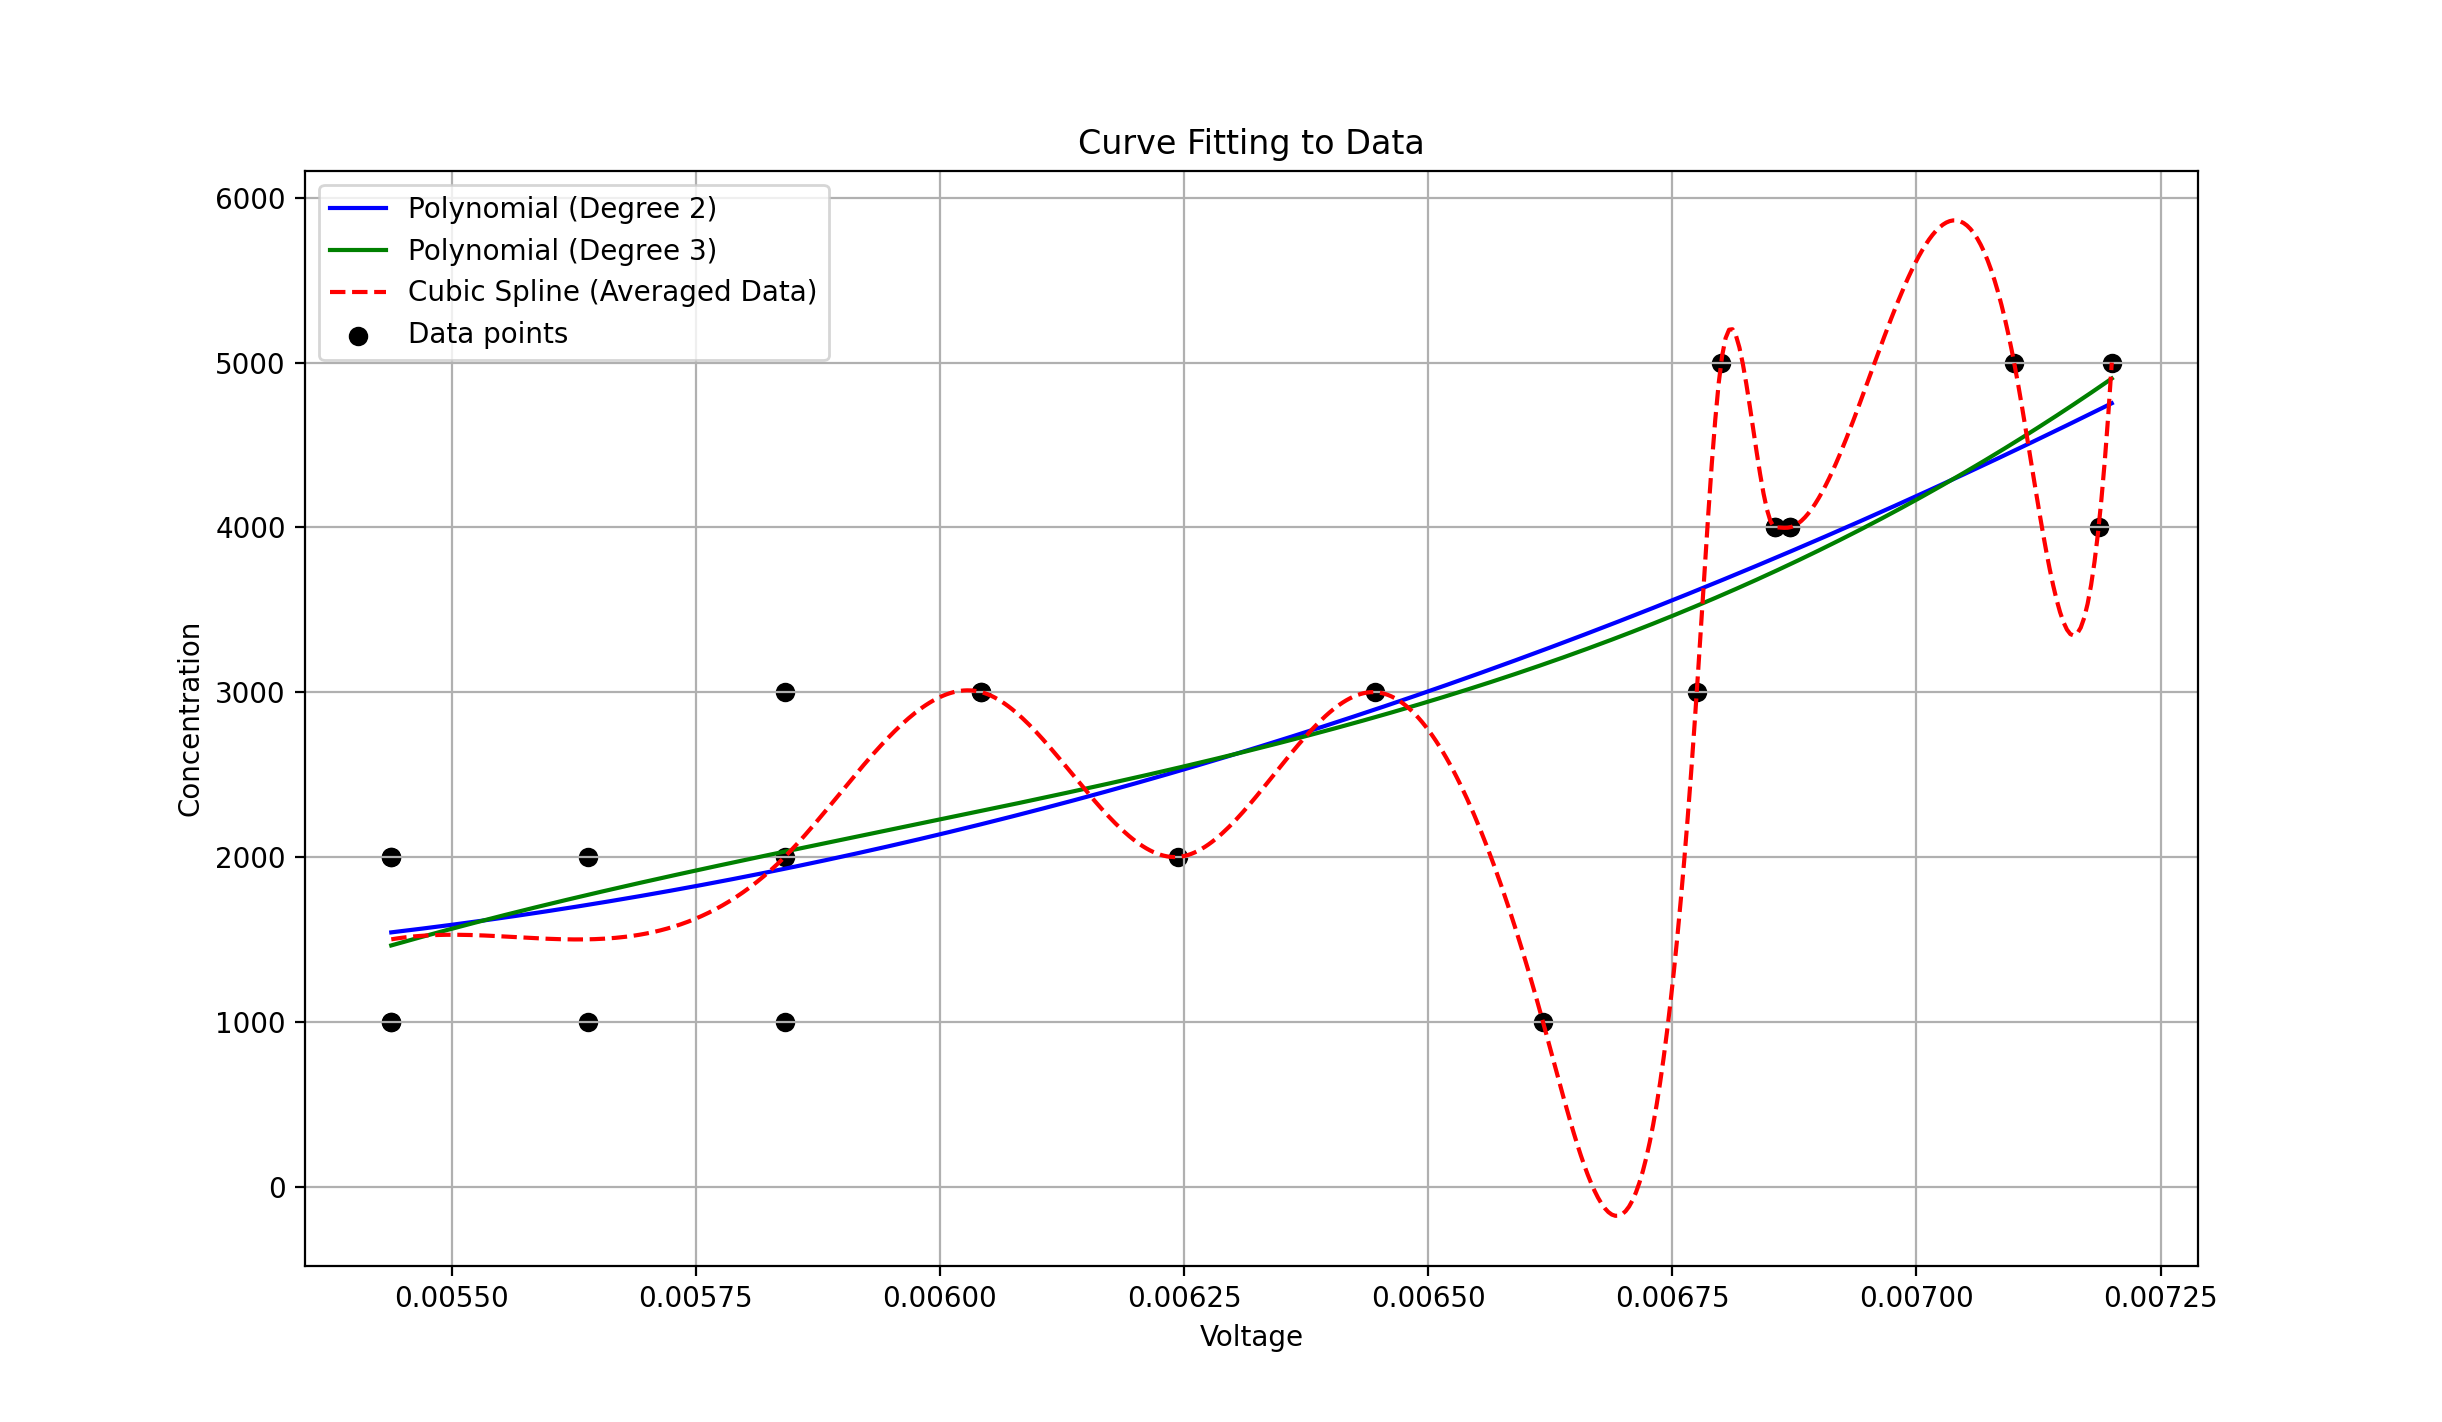
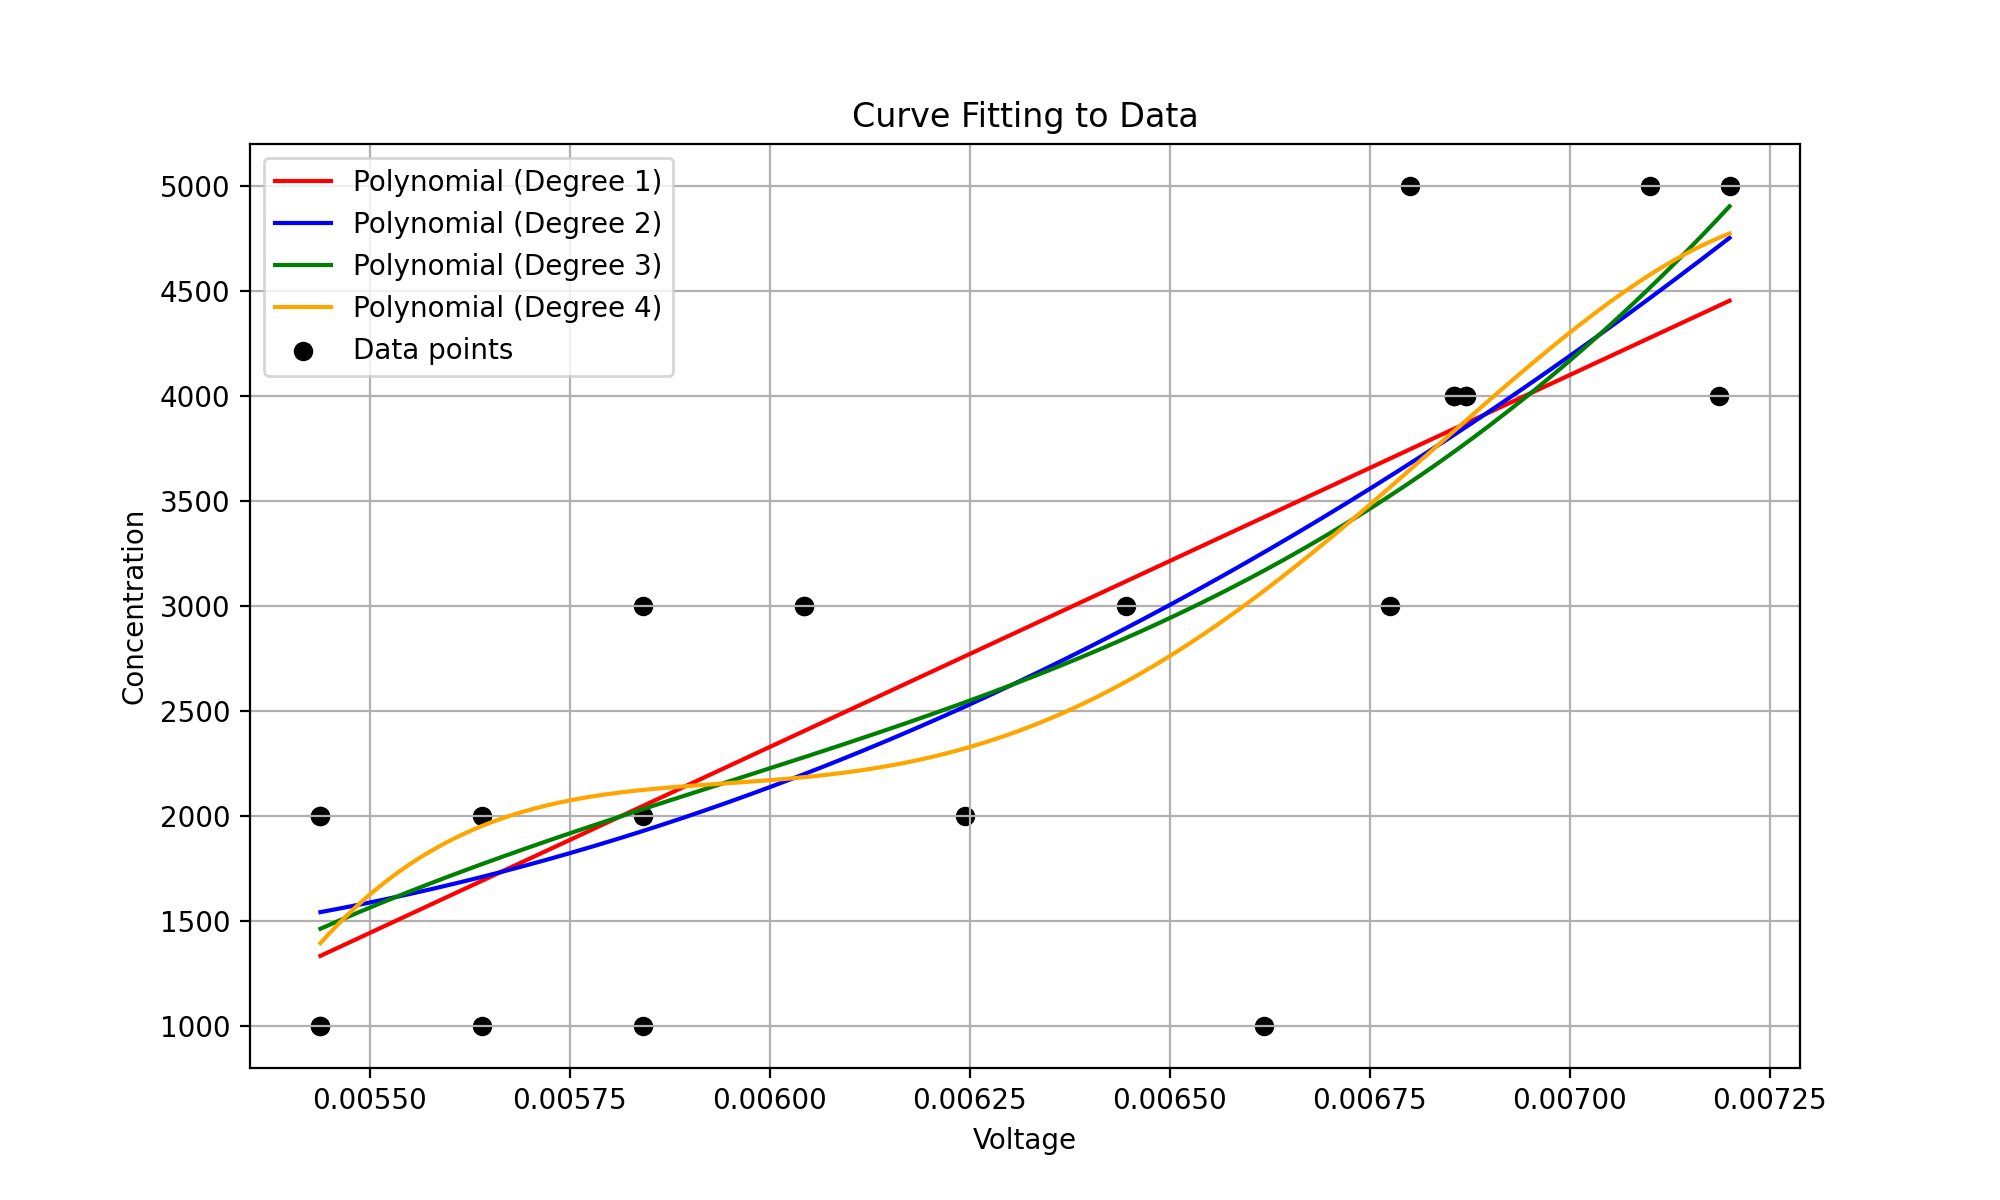
Light up LED after the loop

diff --git a/detector.py b/detector.py
@@ -1,0 +1,75 @@
+from ti_hub import *
+
+# Connect to BB 5 (analog input) to measure voltage
+voltage_port = analog_in("BB 5")
+
+# Connect to BB 1, 2, and 3 (digital outputs) to control LEDs
+red = digital("BB 1")
+green = digital("BB 2")
+blue = digital("BB 3")
+
+# Specify the voltage ranges for red, green and blue LEDs. This is in volts.
+# Ranges are left-inclusive and right-exclusive
+voltage_red = (0.0, 0.75)
+voltage_green = (0.75, 1.5)
+voltage_blue = (1.5, 2.25)
+
+# These variables are to calculate the average voltage
+voltage_sum = 0
+num_samples = 0
+
+ignore_samples = 15
+
+for i in range(300):
+  # Turn off all LEDs first
+  red.off()
+  green.off()
+  blue.off()
+
+  # Measure the reading from voltage sensor
+  measured_data = voltage_port.measurement()
+  # Convert the reading to voltage
+  measured_voltage = measured_data / 16384 * 3.3
+
+  # Add the measured voltage to the sum for calculating average
+  if i > ignore_samples and measured_voltage > 0:
+    voltage_sum += measured_voltage
+    num_samples += 1
+    print(measured_voltage, "avg: ", voltage_sum / num_samples, "V")
+
+  # Turn on the correct LED based on the measured voltage
+  if measured_voltage >= voltage_red[0] and measured_voltage < voltage_red[1]:
+    # Turn on red LED
+    red.on()
+  if measured_voltage >= voltage_green[0] and measured_voltage < voltage_green[1]:
+    # Turn on green LED
+    green.on()
+  if measured_voltage >= voltage_blue[0] and measured_voltage < voltage_blue[1]:
+    # Turn on blue LED
+    blue.on()
+
+  sleep(0.1)
+
+print("Average measured voltage for ", num_samples, " samples: ", voltage_sum / num_samples, "V")
+
+measured_voltage = voltage_sum / num_samples
+if measured_voltage >= voltage_red[0] and measured_voltage < voltage_red[1]:
+  # Turn on red LED
+  red.on()
+if measured_voltage >= voltage_green[0] and measured_voltage < voltage_green[1]:
+  # Turn on green LED
+  green.on()
+if measured_voltage >= voltage_blue[0] and measured_voltage < voltage_blue[1]:
+  # Turn on blue LED
+  blue.on()
+
+
+def best_fit(x):
+  return 6.105e+11 * x ** 3 - 1.088e+10 * x ** 2 + 6.591e+07 * x - 1.332e+05
+
+
+print("Using equation: 6.105e+11 x^3 - 1.088e+10 x^2 + 6.591e+07 x - 1.332e+05")
+avg_voltage = voltage_sum / num_samples
+concentration = best_fit(avg_voltage)
+print("Measured concentration as", concentration, "ppm")
+

diff --git a/best_fit.py b/best_fit.py
@@ -11,14 +11,10 @@ def analyze_and_plot(file_name):
     concentration = data['concentration'].values
 
     # Polynomial fit (degree 2 and 3)
+    poly1 = Polynomial.fit(voltage, concentration, 1)
     poly2 = Polynomial.fit(voltage, concentration, 2)
     poly3 = Polynomial.fit(voltage, concentration, 3)
-
-    # Correcting the Cubic Spline fit
-    # Group by unique voltage and calculate average concentration
-    unique_voltage, indices = np.unique(voltage, return_inverse=True)
-    mean_concentration = np.array([concentration[indices == i].mean() for i in range(len(unique_voltage))])
-    cs = CubicSpline(unique_voltage, mean_concentration, extrapolate=True)
+    poly4 = Polynomial.fit(voltage, concentration, 4)
 
     # Generating a range of voltage values for plotting
     voltage_range = np.linspace(voltage.min(), voltage.max(), 500)
@@ -26,9 +22,10 @@ def analyze_and_plot(file_name):
     # Plot
     plt.figure(figsize=(10, 6))
     plt.scatter(voltage, concentration, color='black', label='Data points')
+    plt.plot(voltage_range, poly1(voltage_range), label='Polynomial (Degree 1)', color='red')
     plt.plot(voltage_range, poly2(voltage_range), label='Polynomial (Degree 2)', color='blue')
     plt.plot(voltage_range, poly3(voltage_range), label='Polynomial (Degree 3)', color='green')
-    plt.plot(voltage_range, cs(voltage_range), label='Cubic Spline (Averaged Data)', color='red', linestyle='--')
+    plt.plot(voltage_range, poly4(voltage_range), label='Polynomial (Degree 4)', color='orange')
     plt.xlabel('Voltage')
     plt.ylabel('Concentration')
     plt.title('Curve Fitting to Data')
@@ -37,8 +34,10 @@ def analyze_and_plot(file_name):
     plt.show()
 
     # Print equations
+    print("1st Degree Polynomial: ", np.poly1d(np.polyfit(voltage, concentration, 1)))
     print("2nd Degree Polynomial: ", np.poly1d(np.polyfit(voltage, concentration, 2)))
     print("3rd Degree Polynomial: ", np.poly1d(np.polyfit(voltage, concentration, 3)))
+    print("4th Degree Polynomial: ", np.poly1d(np.polyfit(voltage, concentration, 4)))
     # Note: Printing the equation for a cubic spline is not straightforward due to its piecewise nature.
 
 # Usage
